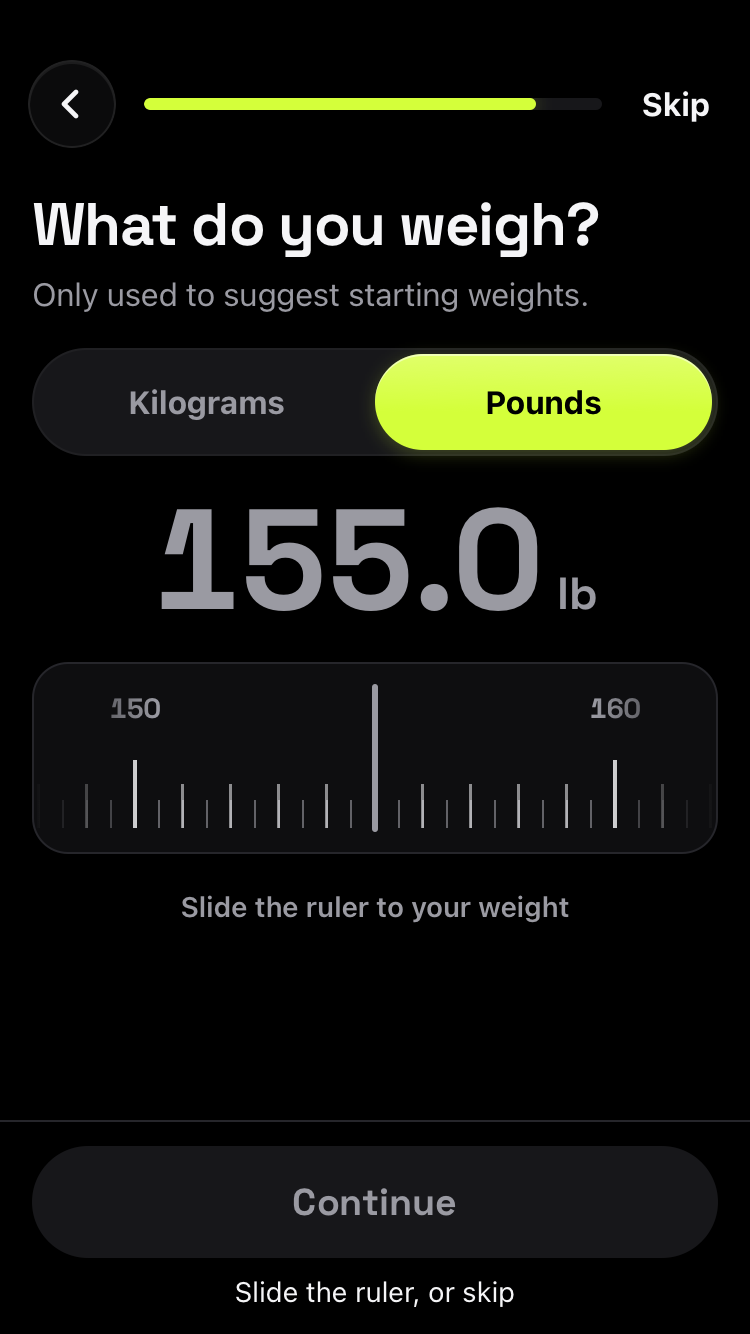
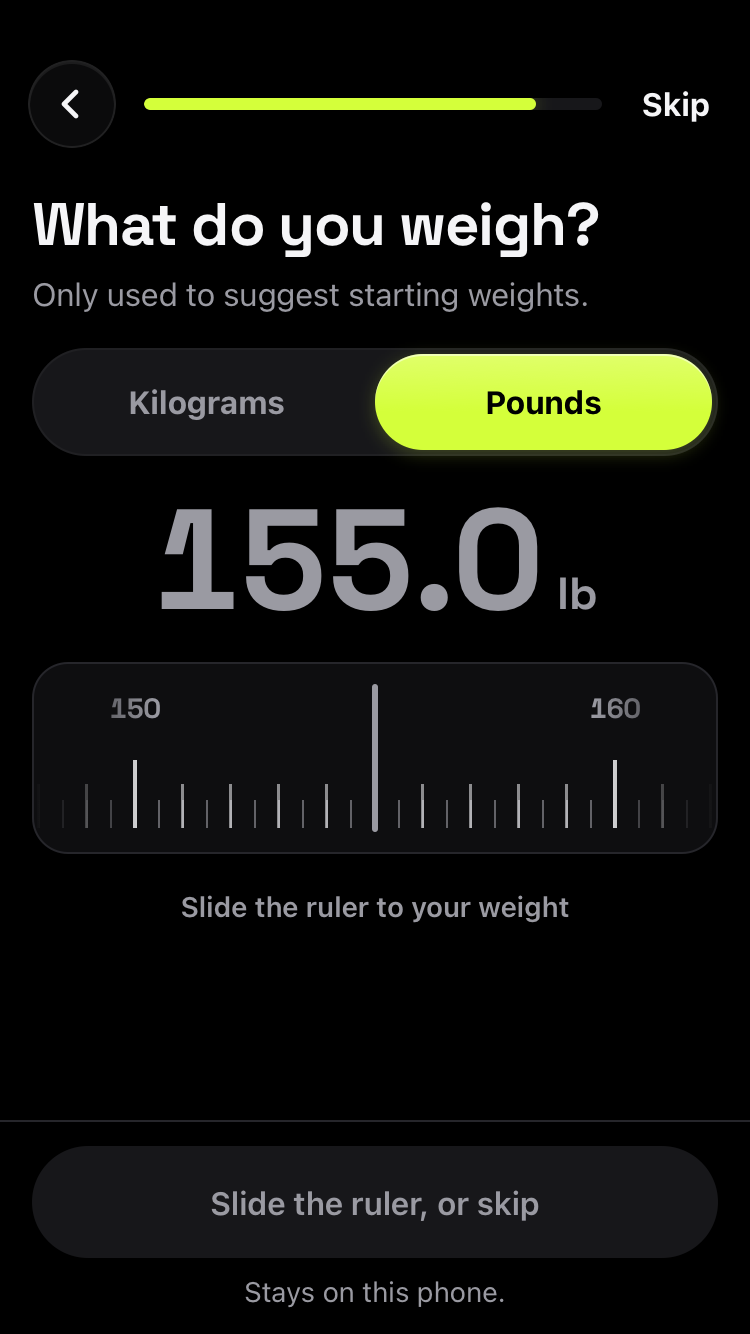
3.3: reload on the reveal and reopening at Today resume an unfinished funnel, Stays on this phone on every screen with the reason inside the grey button

Changed region(s): [[0.276, 0.8913, 0.736, 0.922], [0.3067, 0.9528, 0.6747, 0.9835]]

diff --git a/tests/intake-3.3.spec.ts b/tests/intake-3.3.spec.ts
@@ -656,3 +656,60 @@ test('a redo left alone never touches the gym Settings changed; skipping Name de
   expect('name' in profile!).toBe(false);
   expect(await dbAll(page, 'gyms')).toEqual([kept]);
 });
+
+// ---------------------------------------------------------------- round 3
+
+test('reloading or reopening on the reveal brings a fresh user back to it, until Start Day 1 @matrix', async ({ page }) => {
+  await page.goto('./');
+  await fastPath(page);
+  await expect.poll(async () => (await dbAll(page, 'profile'))[0]?.intakeDoneAt).toBeTruthy();
+  await page.reload();
+  await atStep(page, 'reveal');
+  await expect(page.getByTestId('reveal-card')).toContainText('Classic 5 Day Split');
+  // The app reopened at its start page: back to the reveal too, never Pick a plan.
+  await page.goto('./#/');
+  await page.reload();
+  await atStep(page, 'reveal');
+  await page.getByTestId('reveal-cta').getByRole('button', { name: 'Start Day 1' }).tap();
+  await expect(page).toHaveURL(/#\/workout\//);
+  expect(await page.evaluate(() => localStorage.getItem('anygym.intakeDraft'))).toBeNull();
+  await page.goto('./#/');
+  await page.reload();
+  await expect(page.getByRole('heading', { name: 'Today' })).toBeVisible();
+  await expect(page).not.toHaveURL(/welcome/);
+});
+
+test('rule (f): the note shows under a grey Continue too; the reason is in the button; nothing moves when it turns valid @matrix', async ({ page }) => {
+  await page.goto('./');
+  await atStep(page, 'goal');
+  await page.evaluate(() => localStorage.setItem('anygym.intakeDraft', JSON.stringify({ step: 'focus', answers: { goal: 'muscle', units: { weight: 'lb', distance: 'mi', measure: 'in', body: 'male' } } })));
+  await page.reload();
+  await atStep(page, 'focus');
+  const bar = page.getByTestId('intake-cta');
+  await expect(cta(page)).toBeDisabled();
+  await expect(cta(page)).toHaveText('Pick at least one');
+  await expect(bar.getByText('Stays on this phone.')).toBeVisible();
+  const before = await cta(page).boundingBox();
+  await page.getByTestId('q-focus-arms').tap();
+  await expect(cta(page)).toBeEnabled();
+  await expect(cta(page)).toHaveText('Continue');
+  await expect(bar.getByText('Stays on this phone.')).toBeVisible();
+  expect(await cta(page).boundingBox()).toEqual(before);
+});
+
+test('130% text on the SE: the longest reason stays on one line, the button does not grow', async ({ page }) => {
+  test.skip(test.info().project.name !== 'iPhone SE', 'SE only');
+  await page.goto('./');
+  await atStep(page, 'goal');
+  await page.evaluate(() => localStorage.setItem('anygym.intakeDraft', JSON.stringify({ step: 'equipment', answers: { goal: 'muscle', units: { weight: 'lb', distance: 'mi', measure: 'in', body: 'male' }, place: 'home', equipmentFor: 'home', equipment: ['dumbbells'] } })));
+  await page.reload();
+  await atStep(page, 'equipment');
+  await text130(page);
+  await expect(cta(page)).toBeDisabled();
+  const grey = (await cta(page).boundingBox())!;
+  for (const [k, v] of [['min', '10'], ['max', '40'], ['step', '10']] as const) await page.getByTestId(`range-${k}`).fill(v);
+  await expect(cta(page)).toBeEnabled();
+  await text130(page);
+  expect((await cta(page).boundingBox())!.height).toBe(grey.height);
+  expect(grey.height).toBeLessThanOrEqual(56);
+});

diff --git a/src/db/__tests__/intake-round2-3.3.test.ts b/src/db/__tests__/intake-round2-3.3.test.ts
@@ -1,11 +1,12 @@
 import 'fake-indexeddb/auto';
 import Dexie from 'dexie';
-import { afterEach, describe, expect, it } from 'vitest';
+import { afterEach, beforeEach, describe, expect, it, vi } from 'vitest';
 import { AnyGymDB } from '../schema';
 import { makeGym } from '../gyms';
 import { ensureFirstGym } from '../bootstrap';
 import { setEquipmentWeight, setGymUnit } from '../equipment';
-import { getProfile, redoAnswers, saveIntake } from '../intake';
+import { choosePlan } from '../planState';
+import { clearIntakeDraft, getProfile, INTAKE_DRAFT_KEY, intakeDraftHere, intakeToResume, redoAnswers, saveIntake } from '../intake';
 import { startWorkout } from '../workouts';
 import type { IntakeAnswers } from '../../lib/intake/funnel';
 
@@ -169,5 +170,43 @@ describe('item 4: a skipped name', () => {
     await db.profile.add({ id: 'me', defaultUnit: 'lb', createdAt: 1, name: 'Old' });
     await saveIntake({ goal: 'muscle' }, db, 2);
     expect((await getProfile(db))!.name).toBe('Old');
+  });
+});
+
+describe('a funnel left unfinished comes back (round 3)', () => {
+  const store = new Map<string, string>();
+  beforeEach(() => {
+    store.clear();
+    vi.stubGlobal('localStorage', {
+      getItem: (k: string) => store.get(k) ?? null,
+      setItem: (k: string, v: string) => void store.set(k, v),
+      removeItem: (k: string) => void store.delete(k),
+    });
+  });
+  afterEach(() => vi.unstubAllGlobals());
+
+  it('saving keeps the draft; with nothing started the funnel resumes', async () => {
+    const db = await fresh();
+    await ensureFirstGym(db);
+    store.set(INTAKE_DRAFT_KEY, '{"step":"reveal","answers":{}}');
+    await saveIntake(first, db);
+    expect(intakeDraftHere()).toBe(true);
+    expect(await intakeToResume(db)).toBe(true);
+    clearIntakeDraft();
+    expect(await intakeToResume(db)).toBe(false);
+  });
+
+  it('with a plan or a workout a leftover draft is cleared and never pulls the user back', async () => {
+    const a = await fresh();
+    await choosePlan('five-day-split', a);
+    store.set(INTAKE_DRAFT_KEY, '{"step":"reveal","answers":{}}');
+    expect(await intakeToResume(a)).toBe(false);
+    expect(intakeDraftHere()).toBe(false);
+    const b = await fresh();
+    const gym = await ensureFirstGym(b);
+    await startWorkout(gym.id, b);
+    store.set(INTAKE_DRAFT_KEY, '{"step":"goal","answers":{}}');
+    expect(await intakeToResume(b)).toBe(false);
+    expect(intakeDraftHere()).toBe(false);
   });
 });

diff --git a/src/ui/BottomCTA.tsx b/src/ui/BottomCTA.tsx
@@ -9,6 +9,11 @@ type Props = {
   disabled?: boolean;
   /** Under the grey button, so it never just goes grey (SPEC 23.2). */
   disabledReason?: string;
+  /**
+   * The reason replaces the label inside the grey button instead (one line), so the line under the
+   * button can always keep the note (PLAN 3.3 rule f). Same button box either way: nothing moves.
+   */
+  reasonInButton?: boolean;
   /** Above the button (a quiet "Next up" line, an error). */
   above?: ReactNode;
   /** One quiet honest line under the button ("Stays on this phone."). */
@@ -26,19 +31,20 @@ type Props = {
  * PLAN 2.2e: the screen's one primary action, pinned in the thumb zone. Owns the bottom safe area.
  * The button is the app's lime primary (press 0.97 in one frame); disabled it is grey.
  */
-export function BottomCTA({ children, onPress, disabled, disabledReason, above, note, floating, testId, className }: Props) {
+export function BottomCTA({ children, onPress, disabled, disabledReason, reasonInButton, above, note, floating, testId, className }: Props) {
   // One reserved line under the button (critic B2): the reason while it is grey, the quiet note
   // once it is valid, swapped in place, so the button never moves when it becomes valid.
   const why = disabled && disabledReason ? disabledReason : null;
+  const under = reasonInButton ? null : why;
   return (
     <div className={`${styles.cta} ${className ?? ''}`} data-floating={floating || undefined} data-testid={testId} data-bottom-cta>
       {above}
       <Button onClick={onPress} disabled={disabled}>
-        {children}
+        {reasonInButton && why ? <span className={styles.reasonLabel}>{why}</span> : children}
       </Button>
       {disabledReason || note ? (
-        <p className={styles.note} data-reason={why ? '' : undefined} {...(why ? { role: 'note' } : {})}>
-          {why ?? note ?? ''}
+        <p className={styles.note} data-reason={under ? '' : undefined} {...(under ? { role: 'note' } : {})}>
+          {under ?? note ?? ''}
         </p>
       ) : null}
     </div>

diff --git a/src/screens/intake/Reveal.tsx b/src/screens/intake/Reveal.tsx
@@ -13,20 +13,12 @@ import type { IntakeAnswers } from '../../lib/intake/funnel';
 import { caveatFor, pickPlan, reasonFor, weekOf } from '../../lib/intake/planPick';
 import { PLANS, planById } from '../../data/plans';
 import { planNeeds } from '../../data/places';
-import { INTAKE_DRAFT_KEY, saveIntake } from '../../db/intake';
+import { clearIntakeDraft, saveIntake } from '../../db/intake';
 import { getActiveGym, startDb } from '../../db/bootstrap';
 import { choosePlan, choosePlanUndoable } from '../../db/planState';
 import { startPlanDay, startWorkout } from '../../db/workouts';
 import { STAYS_HERE } from './copy';
 import styles from './Intake.module.css';
-
-const clearDraft = () => {
-  try {
-    localStorage.removeItem(INTAKE_DRAFT_KEY);
-  } catch {
-    // Nothing to clear.
-  }
-};
 
 type Props = { answers: IntakeAnswers; redo: boolean; onBack: () => void; baseline: MutableRefObject<IntakeAnswers | undefined> };
 
@@ -74,14 +66,15 @@ export function Reveal({ answers, redo, onBack, baseline }: Props) {
         go('/', { kind: 'pop', replace: true, state: r.changed ? { toast: 'Plan saved', planUndo: { chosen: r.state, previous: r.previous ?? null } } : { toast: 'Answers saved' } });
         return;
       }
-      clearDraft();
       if (!plan) {
         const s = await startWorkout(gym.id);
+        clearIntakeDraft();
         go(`/workout/${s.id}`, { kind: 'push', replace: true });
         return;
       }
       await choosePlan(plan.id);
       const s = await startPlanDay(gym.id, plan.id, 0);
+      clearIntakeDraft();
       go(`/workout/${s.id}`, { kind: 'push', replace: true });
     } catch {
       setError(redo ? 'Could not save that. Try again.' : 'Could not start the workout. Try again.');

diff --git a/src/components/IntakeGate.tsx b/src/components/IntakeGate.tsx
@@ -1,22 +1,23 @@
 import { useEffect, useState, type ReactNode } from 'react';
 import { Navigate, useLocation } from 'react-router-dom';
 import { startDb } from '../db/bootstrap';
-import { intakeDoneHere, needsIntake } from '../db/intake';
+import { intakeDoneHere, intakeDraftHere, intakeToResume, needsIntake } from '../db/intake';
 
 /**
  * PLAN 3.3: a brand new user opening Today goes to the intake funnel first. Anyone who finished it,
  * or used the app before it (a profile, a workout, a plan), never sees it open by itself: the local
- * flag answers on the first paint, the database answers once otherwise. Other screens pass through.
+ * flag answers on the first paint, the database answers once otherwise. A funnel left unfinished
+ * (a draft, nothing started yet) is picked up again. Other screens pass through.
  */
 export function IntakeGate({ children }: { children: ReactNode }) {
   const { pathname } = useLocation();
   const home = pathname === '/' || pathname === '';
-  const [state, setState] = useState<'done' | 'checking' | 'needed'>(() => (intakeDoneHere() ? 'done' : 'checking'));
+  const [state, setState] = useState<'done' | 'checking' | 'needed'>(() => (intakeDoneHere() && !intakeDraftHere() ? 'done' : 'checking'));
   useEffect(() => {
     if (state !== 'checking' || !home) return;
     let alive = true;
     startDb()
-      .then(() => needsIntake())
+      .then(async () => (await needsIntake()) || (await intakeToResume()))
       // Storage that cannot be read never blocks the app: Today shows, as before.
       .then(
         (needed) => alive && setState(needed ? 'needed' : 'done'),

diff --git a/tests/verify-3.3.spec.ts b/tests/verify-3.3.spec.ts
@@ -51,10 +51,10 @@ async function chrome(page: Page, step: string, kind: 'auto' | 'cta', opts: { ba
   expect(hb.x, `${step} title left`).toBeLessThan(40);
   expect(hb.y, `${step} title top`).toBeLessThan(200);
   expect(hb.x + hb.width, `${step} title inside`).toBeLessThanOrEqual(vw);
-  // The one reserved line under the button shows the reason while Continue is grey, the quiet note otherwise.
+  // Rule (f): the quiet note on every screen; while Continue is grey its reason is inside the button.
   const greyNow = kind === 'cta' && (await cta(page).isDisabled());
   if (greyNow) greyScreens.push(step);
-  else await expect(page.getByText('Stays on this phone.').first(), `${step} note`).toBeVisible();
+  await expect(page.getByText('Stays on this phone.').first(), `${step} note`).toBeVisible();
   const back = page.locator('header').getByRole('button', { name: 'Back', exact: true });
   if (opts.back) {
     const b = (await back.boundingBox())!;
@@ -149,7 +149,7 @@ test('all 22 screens: title top left, round back, Stays on this phone, auto adva
   seen.push('reveal');
   await atStep(page, 'reveal');
   expect(seen).toHaveLength(22);
-  test.info().annotations.push({ type: 'note replaced by reason while grey', description: greyScreens.join(',') });
+  test.info().annotations.push({ type: 'reason inside the grey button', description: greyScreens.join(',') });
   const body = await page.locator('body').innerText();
   expect(body).not.toMatch(/Apple Health|HealthKit|Rabah|Harchaoui/i);
   await shot(page, 'reveal-home');

diff --git a/src/db/intake.ts b/src/db/intake.ts
@@ -125,12 +125,36 @@ export async function saveIntake(input: IntakeAnswers, db: AnyGymDB = defaultDb,
     return next;
   });
   markIntakeDoneHere();
+  // The draft stays until the user leaves the reveal (clearIntakeDraft), so a reload comes back to it.
+  return profile;
+}
+
+export function intakeDraftHere(): boolean {
+  try {
+    return localStorage.getItem(INTAKE_DRAFT_KEY) !== null;
+  } catch {
+    return false;
+  }
+}
+
+export function clearIntakeDraft(): void {
   try {
     localStorage.removeItem(INTAKE_DRAFT_KEY);
   } catch {
     // Nothing to clear.
   }
-  return profile;
+}
+
+/**
+ * A fresh user who left mid funnel or on the reveal (a reload, an app kill) goes back to it, never
+ * to Today with no plan chosen. Only while nothing has started: with a plan or a workout the draft
+ * is old news and is cleared, so it can never pull a real user back into the funnel.
+ */
+export async function intakeToResume(db: AnyGymDB = defaultDb): Promise<boolean> {
+  if (!intakeDraftHere()) return false;
+  const started = await db.transaction('r', db.sessions, db.planState, async () => (await db.sessions.count()) > 0 || (await db.planState.count()) > 0);
+  if (started) clearIntakeDraft();
+  return !started;
 }
 
 /**

diff --git a/src/screens/intake/IntakeScreen.tsx b/src/screens/intake/IntakeScreen.tsx
@@ -104,7 +104,7 @@ const MULTI_OPTIONS: Partial<Record<ScreenId, readonly Option[]>> = {
 
 
 const WHY: Partial<Record<ScreenId, string>> = {
-  equipment: 'Fill in your dumbbells, or turn them off',
+  equipment: 'Add your dumbbell weights',
   focus: 'Pick at least one',
   win: 'Pick at least one',
   weekdays: 'Pick your days, or skip',
@@ -290,7 +290,7 @@ function Funnel({ initial, redo }: { initial: FunnelState; redo: boolean }) {
       {kind === 'single' ? (
         <p className={styles.footNote}>{STAYS_HERE}</p>
       ) : (
-        <BottomCTA onPress={next} disabled={!ready} disabledReason={WHY[step]} note={STAYS_HERE} testId="intake-cta" className={styles.cta}>
+        <BottomCTA onPress={next} disabled={!ready} disabledReason={WHY[step]} reasonInButton note={STAYS_HERE} testId="intake-cta" className={styles.cta}>
           Continue
         </BottomCTA>
       )}

diff --git a/src/ui/BottomCTA.module.css b/src/ui/BottomCTA.module.css
@@ -40,3 +40,10 @@
 .note[data-reason] {
   color: var(--text);
 }
+
+/* A reason inside a grey button: smaller than the label, so it stays one line and the button keeps its size. */
+.reasonLabel {
+  font-family: var(--font-body);
+  font-size: var(--text-base);
+  font-weight: 600;
+}
